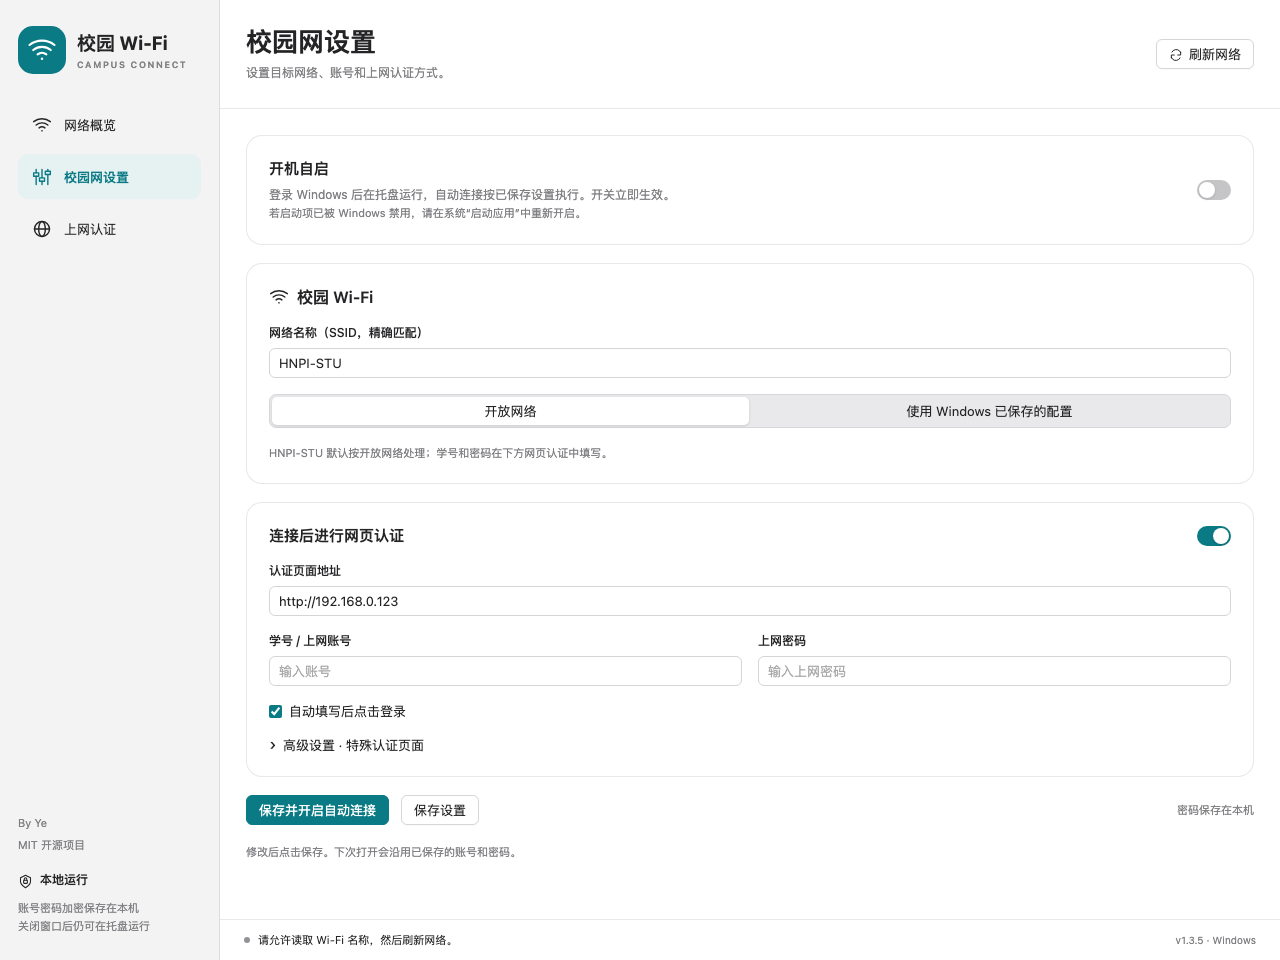
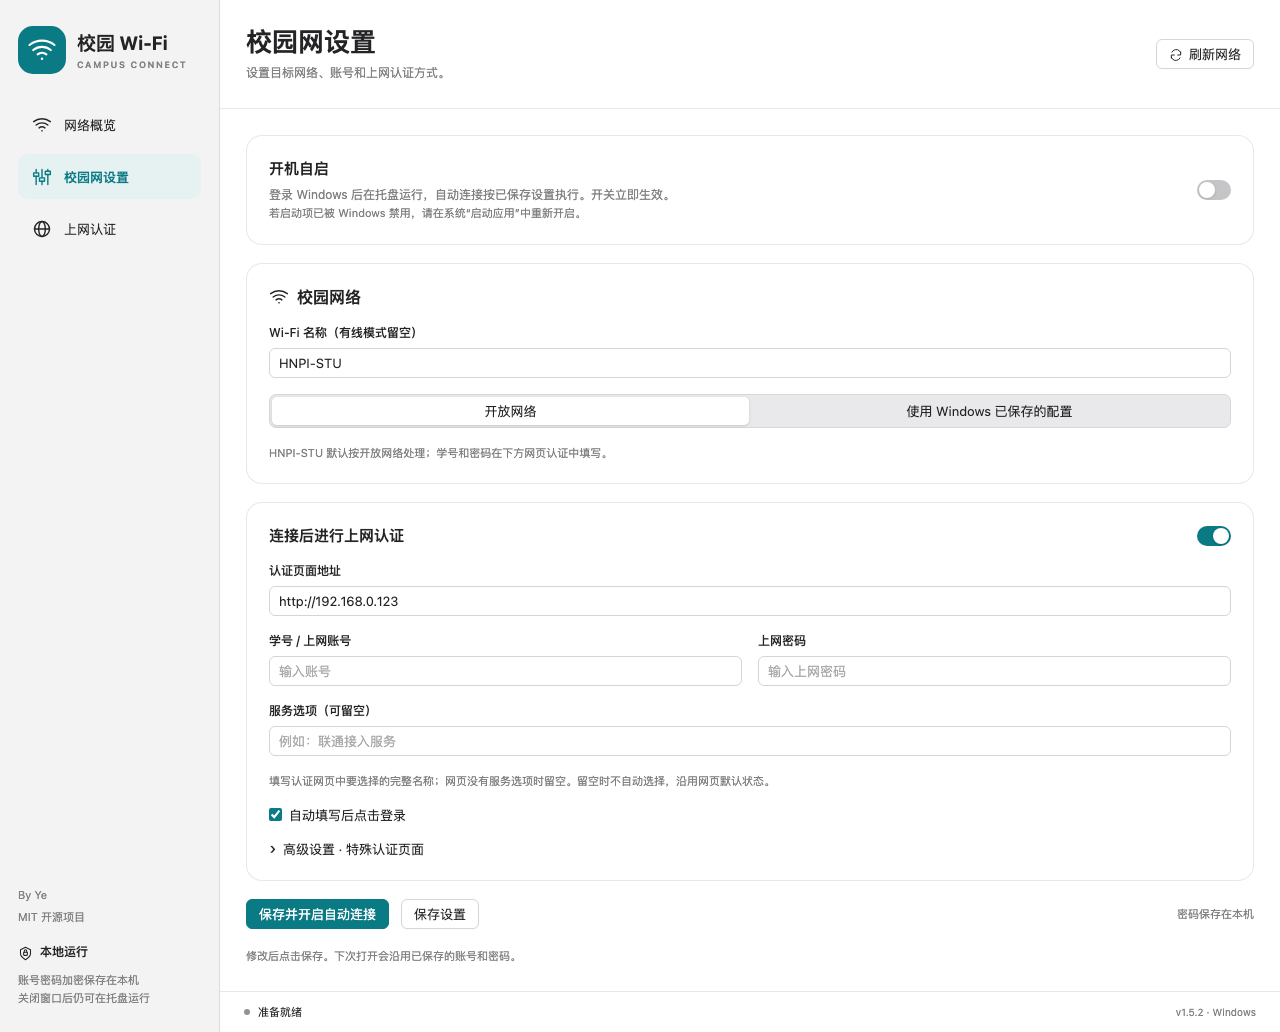
docs: refresh tutorial screenshots for 1.5.2 and wired mode [skip ci]

diff --git a/README.md b/README.md
@@ -44,7 +44,7 @@ ping 使用系统路由，可能经过 VPN。Windows x64 与 macOS Apple 芯片 
 
 ## 界面预览
 
-以下为 Windows 1.3.5 界面预览，展示未连接状态；账号、密码均为空。实际学校认证页面会在连接校园网后加载。
+以下为 Windows 1.5.2 界面预览，使用当前版本的内置界面离线生成，展示未连接状态；账号、密码均为空。实际学校认证页面会在连接校园网后加载。
 
 ### 网络概览
 
@@ -54,7 +54,7 @@ ping 使用系统路由，可能经过 VPN。Windows x64 与 macOS Apple 芯片 
 
 ### 校园网设置
 
-配置校园 Wi-Fi、认证地址、账号信息和开机自启。
+配置校园 Wi-Fi、认证地址、账号信息和开机自启。服务选项按学校认证网页填写；网页没有选项时留空。
 
 ![Windows 校园网设置](docs/screenshots/windows-settings.png)
 
@@ -63,6 +63,16 @@ ping 使用系统路由，可能经过 VPN。Windows x64 与 macOS Apple 芯片 
 打开学校认证页面，填写登录信息并检查上网状态。
 
 ![Windows 上网认证](docs/screenshots/windows-portal.png)
+
+### 有线模式
+
+在「校园网设置」清空 Wi-Fi 名称，填写认证地址和上网账号密码后保存。无需 Wi-Fi 密码或定位授权；接好网线后点击「立即连接」，也可开启自动连接。
+
+![Windows 有线模式设置](docs/screenshots/windows-wired-settings.png)
+
+网络概览会显示「有线网络」及当前状态。下图展示尚未连接网线时的提示。
+
+![Windows 有线模式网络概览](docs/screenshots/windows-wired-dashboard.png)
 
 ## Windows 1.3.5 更新
 
